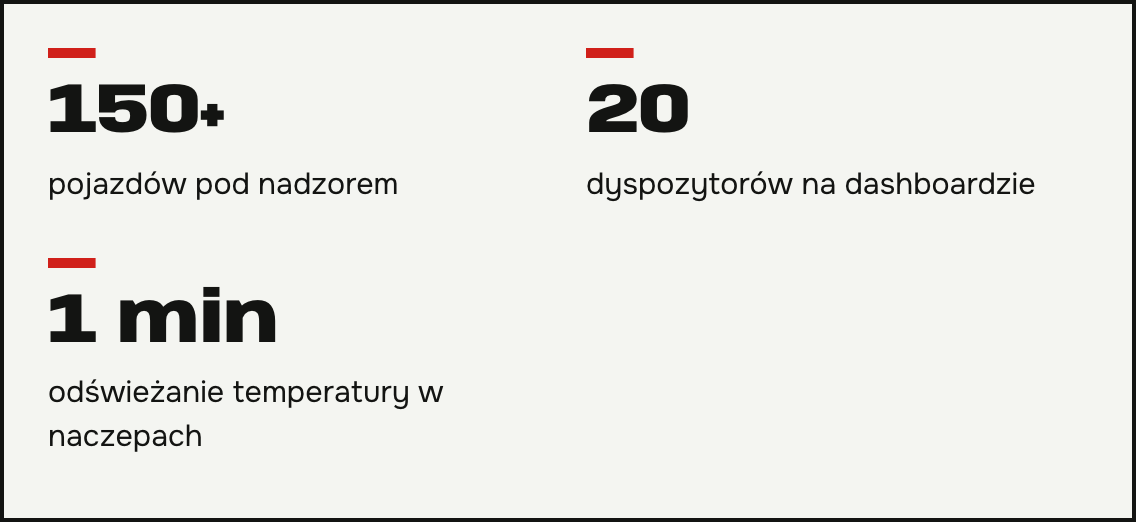
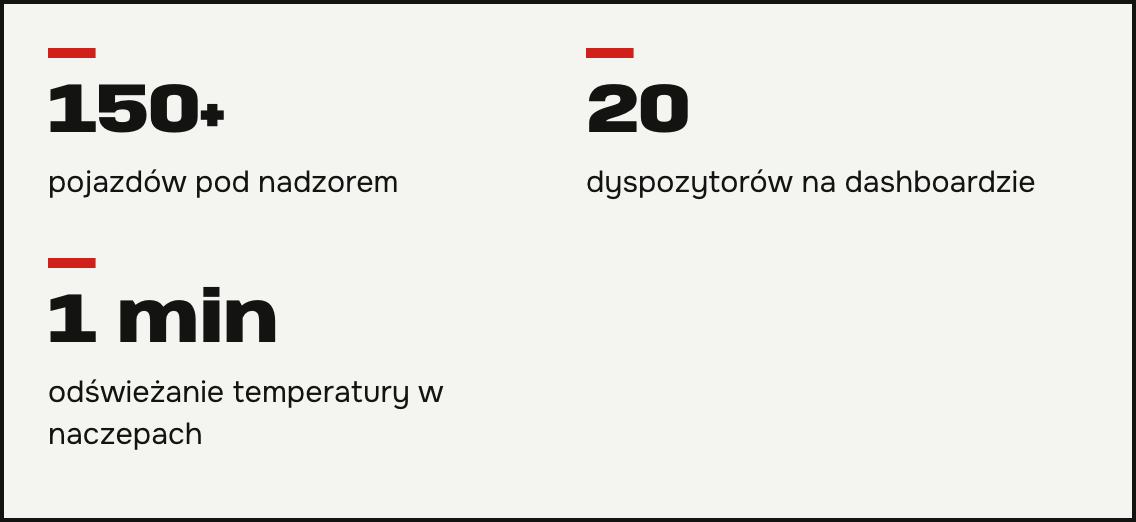
Poprawki po przeglądzie: fakt z karty wdrożenia, brak pliku zatrzymuje build, % w nazwach

Changed region(s): [[0.493, 0.3372, 0.9243, 0.3985], [0.0308, 0.3372, 0.3697, 0.3985], [0.0616, 0.7969, 0.1849, 0.8582]]

diff --git a/docs/blog-szkice/podglad/podglad.html b/docs/blog-szkice/podglad/podglad.html
@@ -225,7 +225,7 @@ section:first-child { border-top: 0; }
 <circle cx="400" cy="150" r="52" fill="#131412"/><path d="M376 150l16 16 32-34" fill="none" stroke="#ffc400" stroke-width="10" stroke-linecap="round" stroke-linejoin="round"/></svg></a>
   <div><time class="mono">14.10.2026</time><h3><a href="#ai-act-dla-malej-firmy">AI Act dla małej firmy: lista na 2026</a></h3><p>AI Act dla małej firmy: od 2.08.2026 klient musi wiedzieć, że rozmawia z botem. Sprawdź w 3 krokach, co zrobić. Napisz, pomogę.</p></div>
 </article><article class="karta" style="--pl:var(--m)">
-  <a class="mini" href="#ile-firm-uzywa-ai" tabindex="-1" aria-hidden="true"><svg xmlns="http://www.w3.org/2000/svg" viewBox="0 0 480 270" role="img" aria-label="Duża liczba 8,36 procent firm z AI w Polsce i porównanie z Unią Europejską"><rect width="480" height="270" fill="#d0201a"/>
+  <a class="mini" href="#ile-firm-uzywa-ai" tabindex="-1" aria-hidden="true"><svg xmlns="http://www.w3.org/2000/svg" viewBox="0 0 480 270" role="img" aria-label="Duża liczba 8,36 procent firm z AI w Polsce według Eurostatu i porównanie z Unią Europejską"><rect width="480" height="270" fill="#d0201a"/>
 <text x="28" y="44" font-family="Spline Sans Mono, Menlo, monospace" font-weight="600" font-size="14" fill="#f4f5f1">FIRMY Z AI · 2025</text>
 <text x="28" y="132" font-family="Anybody, Arial Black, Arial, sans-serif" font-weight="850" font-size="74" fill="#f4f5f1">8,36%</text>
 <text x="30" y="160" font-family="Spline Sans Mono, Menlo, monospace" font-weight="600" font-size="14" fill="#f4f5f1">POLSKA</text>
@@ -406,14 +406,14 @@ section:first-child { border-top: 0; }
   <p class="label mono">Wpis 4 z 5 · /wpisy/voice-bot-dla-firmy/</p>
   <header><h1 class="sec-title">Voice bot dla firmy: oddzwonienie w 2 min</h1><time class="mono">04.11.2026</time>
   <p class="google mono"><span>Wynik w Google</span><b>Voice bot dla firmy: oddzwonienie w 2 min | Robert Dębicki</b>Voice bot dla firmy dzwoni do osoby z formularza w 2 minuty i robi notatkę dla handlowca. Zobacz, jak działa i co z AI Act. Napisz do mnie.</p></header>
-  <div class="wpis-tresc"><p class="wstep"><strong>Voice bot dla firmy</strong> może zadzwonić do osoby, która wypełniła formularz na Twojej stronie, w 2 minuty od wysłania. Opisuję wdrożenie, w którym bot obsługuje około 15 rozmów dziennie i przekazuje handlowcowi gotową notatkę. Chcesz oddzwaniać szybciej do zapytań? Napisz do mnie.</p>
+  <div class="wpis-tresc"><p class="wstep"><strong>Voice bot dla firmy</strong> może zadzwonić do osoby, która wypełniła formularz na Twojej stronie, w 2 minuty od wysłania. Opisuję wdrożenie, w którym bot obsługuje 15 rozmów dziennie i przekazuje handlowcowi gotową notatkę. Chcesz oddzwaniać szybciej do zapytań? Napisz do mnie.</p>
 <figure class="graf" role="img" aria-label="Oś czasu voice bota: formularz o 0:00, telefon bota o 2:00, notatka z potrzebą i budżetem trafia do Pipedrive"><ol class="minuty">
   <li><time class="mono">0:00</time><b>Formularz</b><span>Klient wysyła zapytanie.</span></li>
   <li class="teraz"><time class="mono">2:00</time><b>Bot dzwoni</b><span>Pytania kwalifikujące.</span></li>
   <li><time class="mono">po rozmowie</time><b>Notatka</b><span>Potrzeba i budżet.</span></li>
   <li><time class="mono">n8n</time><b>Pipedrive</b><span>Przy właściwej szansie sprzedaży.</span></li>
 </ol>
-<div class="kara"><span class="duza">~15</span><span>rozmów dziennie w opisanym wdrożeniu</span></div><p class="alt mono">ALT: Oś czasu voice bota: formularz o 0:00, telefon bota o 2:00, notatka z potrzebą i budżetem trafia do Pipedrive</p></figure>
+<div class="kara"><span class="duza">15</span><span>rozmów dziennie w opisanym wdrożeniu</span></div><p class="alt mono">ALT: Oś czasu voice bota: formularz o 0:00, telefon bota o 2:00, notatka z potrzebą i budżetem trafia do Pipedrive</p></figure>
 <h2>Po co oddzwaniać do leada od razu</h2>
 <p>Osoba, która właśnie wysłała formularz, ma sprawę w głowie. Handlowiec nie zawsze może zadzwonić od razu, bo prowadzi inne rozmowy.</p>
 <h2>Jak działa ten voice bot krok po kroku</h2>
@@ -439,7 +439,7 @@ section:first-child { border-top: 0; }
 <h2>Pytania i odpowiedzi</h2>
 <div class="faq">
 <details><summary>Czy klient pozna, że rozmawia z botem?</summary><p>Powinien to usłyszeć na początku rozmowy. Wymagają tego przepisy przejrzystości AI Act, gdy nie jest to oczywiste.</p></details>
-<details><summary>Ile rozmów dziennie obsłuży bot?</summary><p>W opisanym wdrożeniu to około 15 rozmów dziennie. Liczba zależy od liczby formularzy w Twojej firmie.</p></details>
+<details><summary>Ile rozmów dziennie obsłuży bot?</summary><p>W opisanym wdrożeniu to 15 rozmów dziennie. Liczba zależy od liczby formularzy w Twojej firmie.</p></details>
 <details><summary>Co jeśli klient nie odbierze albo przerwie rozmowę?</summary><p>Takie przypadki też trafiają do handlowca. Ma wtedy informację, że kontakt jest do ponowienia, razem z tym, co klient zdążył powiedzieć.</p></details>
 <details><summary>W jakim CRM to działa?</summary><p>W opisanym wdrożeniu w Pipedrive. Pracuję też z HubSpotem i integracjami przez API.</p></details>
 <details><summary>Ile kosztuje voice bot dla firmy?</summary><p>Cena zależy od liczby pytań, CRM i godzin dzwonienia. Napisz, jakich zapytań dostajesz dziennie, a przygotuję wycenę.</p></details>
@@ -473,7 +473,7 @@ section:first-child { border-top: 0; }
   </tbody>
 </table></div><p class="alt mono">ALT: Tabela porównania n8n, Make i Zapier: prostota obsługi, wiedza techniczna, miejsce danych</p></figure>
 <h2>Dlaczego w moich wdrożeniach często wybieram n8n</h2>
-<p>Przy monitoringu temperatur w transporcie logika aplikacji przekroczyła limity workflow. Przeniosłem ją do n8n na AWS. System pilnuje ponad 150 pojazdów, a 20 dyspozytorów widzi odczyty odświeżane co minutę. Przy odczycie dokumentów i voice botach też używam n8n.</p>
+<p>Przy monitoringu temperatur w transporcie przeniosłem logikę aplikacji do n8n na AWS, żeby nie przekraczać limitów workflow. System pilnuje ponad 150 pojazdów, a 20 dyspozytorów widzi odczyty odświeżane co minutę. Przy odczycie dokumentów i voice botach też używam n8n.</p>
 <p>To nie jest reguła dla każdego. Przy prostej automatyzacji dla małego zespołu Zapier albo Make wystarczą.</p>
 <figure class="graf" role="img" aria-label="Wdrożenie n8n na AWS w transporcie chłodniczym: ponad 150 pojazdów, 20 dyspozytorów, odczyt co minutę"><div class="liczby">
   <div><span class="duza">150+</span><span>pojazdów pod nadzorem</span></div>

diff --git a/testy/jednostkowe/obrazy-w-tresci.test.ts b/testy/jednostkowe/obrazy-w-tresci.test.ts
@@ -7,6 +7,8 @@ import { sciezkaWzgledna } from '../../src/lib/obrazy-w-tresci.mjs';
 const korzen = mkdtempSync(join(tmpdir(), 'obrazy-'));
 mkdirSync(join(korzen, 'src/assets/wpisy'), { recursive: true });
 writeFileSync(join(korzen, 'src/assets/wpisy/grafika.png'), '');
+writeFileSync(join(korzen, 'src/assets/wpisy/wzrost-100%.png'), '');
+writeFileSync(join(korzen, 'src/assets/wpisy/żółw.png'), '');
 const md = join(korzen, 'src/content/wpisy/adres/pl.md');
 const DOZWOLONE = ['/src/assets/'];
 
@@ -19,6 +21,18 @@ describe('obrazy w treści wpisu: ścieżka z panelu na względną', () => {
     expect(sciezkaWzgledna('//example.com/a.png', md, DOZWOLONE, korzen)).toBeNull();
     expect(sciezkaWzgledna('./a.png', md, DOZWOLONE, korzen)).toBeNull();
     expect(sciezkaWzgledna('/og.png', md, DOZWOLONE, korzen)).toBeNull();
-    expect(sciezkaWzgledna('/src/assets/wpisy/brak.png', md, DOZWOLONE, korzen)).toBeNull();
+  });
+  it('brak pliku w dozwolonym folderze zatrzymuje build z nazwą pliku (jak przy zdjęciach pod wpisem)', () => {
+    expect(() => sciezkaWzgledna('/src/assets/wpisy/brak.png', md, DOZWOLONE, korzen)).toThrow(/brak\.png/);
+  });
+  it('nazwy z % i polskimi znakami: wynik zakodowany tak, żeby Astro po swoim decodeURI trafiło w plik', () => {
+    const procent = sciezkaWzgledna('/src/assets/wpisy/wzrost-100%25.png', md, DOZWOLONE, korzen)!;
+    expect(decodeURI(procent)).toBe('../../../assets/wpisy/wzrost-100%.png');
+    const polskie = sciezkaWzgledna('/src/assets/wpisy/%C5%BC%C3%B3%C5%82w.png', md, DOZWOLONE, korzen)!;
+    expect(decodeURI(polskie)).toBe('../../../assets/wpisy/żółw.png');
+    expect(decodeURI(sciezkaWzgledna('/src/assets/wpisy/żółw.png', md, DOZWOLONE, korzen)!)).toBe('../../../assets/wpisy/żółw.png');
+  });
+  it('błędna sekwencja % nie wywraca buildu wyjątkiem URIError', () => {
+    expect(() => sciezkaWzgledna('/src/assets/wpisy/zly-%zz.png', md, DOZWOLONE, korzen)).not.toThrow(URIError);
   });
 });

diff --git a/src/lib/wpisy.ts b/src/lib/wpisy.ts
@@ -17,7 +17,7 @@ const OBRAZY: Obrazy = import.meta.env.OBRAZY_Z_FIKSTUR
 
 export async function obraz(plik: string, wpis: string) {
   const wczytaj = OBRAZY[plik];
-  if (!wczytaj) throw new Error(`Wpis ${wpis}: nie znaleziono zdjęcia ${plik}. Sprawdź pole zdjecia.plik.`);
+  if (!wczytaj) throw new Error(`Wpis ${wpis}: nie znaleziono zdjęcia ${plik}. Sprawdź pole plik w zdjęciach albo w miniaturze.`);
   return (await wczytaj()).default;
 }
 

diff --git a/docs/blog-szkice/podglad/generuj.py b/docs/blog-szkice/podglad/generuj.py
@@ -151,7 +151,7 @@ DWIE_MINUTY = figura(
   <li><time class="mono">po rozmowie</time><b>Notatka</b><span>Potrzeba i budżet.</span></li>
   <li><time class="mono">n8n</time><b>Pipedrive</b><span>Przy właściwej szansie sprzedaży.</span></li>
 </ol>
-<div class="kara"><span class="duza">~15</span><span>rozmów dziennie w opisanym wdrożeniu</span></div>''',
+<div class="kara"><span class="duza">15</span><span>rozmów dziennie w opisanym wdrożeniu</span></div>''',
 )
 
 NOTATKA = figura(
@@ -264,7 +264,7 @@ MINIATURY = {
 <rect x="28" y="228" width="158" height="22" fill="{P}"/><text x="196" y="245" {MONO} font-size="14" fill="{P}">UE 19,95%</text>
 <g fill="none" stroke="{K}" stroke-width="5" stroke-linejoin="round"><rect x="330" y="70" width="120" height="150" fill="{P}"/></g>
 <path d="M352 196h76M352 170h76M352 144h50" stroke="{K}" stroke-width="6"/><circle cx="420" cy="96" r="14" fill="{Y}" stroke="{K}" stroke-width="4"/>''',
-        'Duża liczba 8,36 procent firm z AI w Polsce i porównanie z Unią Europejską'),
+        'Duża liczba 8,36 procent firm z AI w Polsce według Eurostatu i porównanie z Unią Europejską'),
     'automatyczny-odczyt-dokumentow': svg(Y, f'''
 <text x="28" y="44" {MONO} font-size="14" fill="{K}">PDF → BAZA</text>
 <rect x="44" y="78" width="120" height="156" fill="{P}" stroke="{K}" stroke-width="4"/>

diff --git a/docs/blog-szkice/podglad/eksport.py b/docs/blog-szkice/podglad/eksport.py
@@ -1,8 +1,10 @@
 """Przenosi szkice na stronę: src/content/wpisy/<adres>/pl.md z grafikami jako obrazkami PNG.
 Najpierw: python3 docs/blog-szkice/podglad/generuj.py, potem node docs/blog-szkice/podglad/zrzuty.mjs (PNG do src/assets/wpisy/).
-Uruchom: python3 docs/blog-szkice/podglad/eksport.py"""
+Uruchom: python3 docs/blog-szkice/podglad/eksport.py
+Istniejącego pl.md nie nadpisuje (mógł być poprawiony w panelu /admin/), chyba że z flagą --nadpisz."""
 import html
 import re
+import sys
 from pathlib import Path
 
 import generuj
@@ -45,6 +47,9 @@ def main():
         alt_mini = re.search(r'aria-label="([^"]*)"', generuj.MINIATURY[nazwa]).group(1)
         fm = fm.rstrip('\n') + f'\nminiatura:\n  plik: "{ZDJECIA}/{nazwa}-miniatura.png"\n  alt: "{html.unescape(alt_mini)}"\n'
         cel = KORZEN / 'src/content/wpisy' / nazwa / 'pl.md'
+        if cel.exists() and '--nadpisz' not in sys.argv:
+            print('Pominięto (już istnieje, użyj --nadpisz):', cel.relative_to(KORZEN))
+            continue
         cel.parent.mkdir(parents=True, exist_ok=True)
         cel.write_text(f'---{fm}---\n' + '\n\n'.join(wyjscie) + '\n')
         print('Zapisano', cel.relative_to(KORZEN))

diff --git a/CHANGELOG.md b/CHANGELOG.md
@@ -9,6 +9,13 @@
 - Testy, które zakładały brak wpisów na prawdziwej treści, sprawdzają teraz oba stany: `wpisy-puste.spec.ts`, menu EN w `jezyki-prawdziwa-tresc.spec.ts` (Posts z „No posts in English yet”, jak w `maListe`), porównanie z makietą ukrywa sekcję wpisów i link w menu (makieta ich nie ma).
 - `npm run sprawdz`: treść 0, GPS 0, tłumaczenia OK, vitest 148 pass/1 skipped, e2e 120 pass. Zrzuty listy i wpisu 1440 jasny i ciemny, 390: bez przewijania w bok.
 
+**✅ Poprawki po `/code-review medium` (runda 1, 10 uwag):**
+- Przeinaczony fakt: wpis n8n mówił, że logika „przekroczyła limity”, karta: przeniesiona, „żeby nie przekraczać limitów”. Ten sam typ: „około 15 rozmów” zamiast „15” (karta), też na grafice. Poprawione w szkicach, wpisach i PNG.
+- Wtyczka obrazów: brak pliku w `/src/assets/` zatrzymuje build (wcześniej cicho zepsuty obrazek), `%` i polskie znaki w nazwie bez wywracania buildu (testy najpierw czerwone).
+- Komunikat `obraz()` wskazuje też miniaturę; `eksport.py` nie nadpisuje wpisów bez `--nadpisz`; README szkiców: źródłem treści jest panel; ALT miniaturki: „według Eurostatu”.
+- Bez zmian: porównanie z makietą pomija sekcję wpisów (makieta jej nie ma), wspólny helper w testach (refaktor bez błędu).
+- Otwarte, decyzja Roberta: menu EN „Posts” prowadzi do pustej listy, która trafia do mapy strony.
+
 **🎯 Następny krok:**
 - `/code-review`, potem PR, scalenie i `npm run wdroz -- --wgraj` (zgoda Roberta z 12.11 w rozmowie).
 - Później: angielskie wersje wpisów przez `/tlumacz-strone` (do tego czasu w EN menu „Posts” prowadzi do pustej listy).

diff --git a/src/content/wpisy/voice-bot-dla-firmy/pl.md b/src/content/wpisy/voice-bot-dla-firmy/pl.md
@@ -6,7 +6,7 @@ miniatura:
   plik: "/src/assets/wpisy/voice-bot-dla-firmy-miniatura.png"
   alt: "Duży napis 2:00 i słuchawka telefonu, bot oddzwania do klienta w dwie minuty"
 ---
-**Voice bot dla firmy** może zadzwonić do osoby, która wypełniła formularz na Twojej stronie, w 2 minuty od wysłania. Opisuję wdrożenie, w którym bot obsługuje około 15 rozmów dziennie i przekazuje handlowcowi gotową notatkę. Chcesz oddzwaniać szybciej do zapytań? Napisz do mnie.
+**Voice bot dla firmy** może zadzwonić do osoby, która wypełniła formularz na Twojej stronie, w 2 minuty od wysłania. Opisuję wdrożenie, w którym bot obsługuje 15 rozmów dziennie i przekazuje handlowcowi gotową notatkę. Chcesz oddzwaniać szybciej do zapytań? Napisz do mnie.
 
 ![Oś czasu voice bota: formularz o 0:00, telefon bota o 2:00, notatka z potrzebą i budżetem trafia do Pipedrive](/src/assets/wpisy/voice-bot-dla-firmy-1.png)
 
@@ -43,7 +43,7 @@ Od 2 sierpnia 2026 klient ma wiedzieć, że rozmawia z AI, jeśli nie jest to oc
 Powinien to usłyszeć na początku rozmowy. Wymagają tego przepisy przejrzystości AI Act, gdy nie jest to oczywiste.
 
 ### Ile rozmów dziennie obsłuży bot?
-W opisanym wdrożeniu to około 15 rozmów dziennie. Liczba zależy od liczby formularzy w Twojej firmie.
+W opisanym wdrożeniu to 15 rozmów dziennie. Liczba zależy od liczby formularzy w Twojej firmie.
 
 ### Co jeśli klient nie odbierze albo przerwie rozmowę?
 Takie przypadki też trafiają do handlowca. Ma wtedy informację, że kontakt jest do ponowienia, razem z tym, co klient zdążył powiedzieć.

diff --git a/docs/blog-szkice/voice-bot-dla-firmy.md b/docs/blog-szkice/voice-bot-dla-firmy.md
@@ -3,7 +3,7 @@ tytul: "Voice bot dla firmy: oddzwonienie w 2 min"
 data: 2026-11-04
 zajawka: "Voice bot dla firmy dzwoni do osoby z formularza w 2 minuty i robi notatkę dla handlowca. Zobacz, jak działa i co z AI Act. Napisz do mnie."
 ---
-**Voice bot dla firmy** może zadzwonić do osoby, która wypełniła formularz na Twojej stronie, w 2 minuty od wysłania. Opisuję wdrożenie, w którym bot obsługuje około 15 rozmów dziennie i przekazuje handlowcowi gotową notatkę. Chcesz oddzwaniać szybciej do zapytań? Napisz do mnie.
+**Voice bot dla firmy** może zadzwonić do osoby, która wypełniła formularz na Twojej stronie, w 2 minuty od wysłania. Opisuję wdrożenie, w którym bot obsługuje 15 rozmów dziennie i przekazuje handlowcowi gotową notatkę. Chcesz oddzwaniać szybciej do zapytań? Napisz do mnie.
 
 ## Po co oddzwaniać do leada od razu
 
@@ -32,7 +32,7 @@ Od 2 sierpnia 2026 klient ma wiedzieć, że rozmawia z AI, jeśli nie jest to oc
 Powinien to usłyszeć na początku rozmowy. Wymagają tego przepisy przejrzystości AI Act, gdy nie jest to oczywiste.
 
 ### Ile rozmów dziennie obsłuży bot?
-W opisanym wdrożeniu to około 15 rozmów dziennie. Liczba zależy od liczby formularzy w Twojej firmie.
+W opisanym wdrożeniu to 15 rozmów dziennie. Liczba zależy od liczby formularzy w Twojej firmie.
 
 ### Co jeśli klient nie odbierze albo przerwie rozmowę?
 Takie przypadki też trafiają do handlowca. Ma wtedy informację, że kontakt jest do ponowienia, razem z tym, co klient zdążył powiedzieć.

diff --git a/docs/blog-szkice/n8n-make-czy-zapier.md b/docs/blog-szkice/n8n-make-czy-zapier.md
@@ -21,7 +21,7 @@ n8n wymaga najwięcej wiedzy, ale daje największą kontrolę. Można go postawi
 
 ## Dlaczego w moich wdrożeniach często wybieram n8n
 
-Przy monitoringu temperatur w transporcie logika aplikacji przekroczyła limity workflow. Przeniosłem ją do n8n na AWS. System pilnuje ponad 150 pojazdów, a 20 dyspozytorów widzi odczyty odświeżane co minutę. Przy odczycie dokumentów i voice botach też używam n8n.
+Przy monitoringu temperatur w transporcie przeniosłem logikę aplikacji do n8n na AWS, żeby nie przekraczać limitów workflow. System pilnuje ponad 150 pojazdów, a 20 dyspozytorów widzi odczyty odświeżane co minutę. Przy odczycie dokumentów i voice botach też używam n8n.
 
 To nie jest reguła dla każdego. Przy prostej automatyzacji dla małego zespołu Zapier albo Make wystarczą.
 

diff --git a/src/content/wpisy/n8n-make-czy-zapier/pl.md b/src/content/wpisy/n8n-make-czy-zapier/pl.md
@@ -30,7 +30,7 @@ n8n wymaga najwięcej wiedzy, ale daje największą kontrolę. Można go postawi
 
 ## Dlaczego w moich wdrożeniach często wybieram n8n
 
-Przy monitoringu temperatur w transporcie logika aplikacji przekroczyła limity workflow. Przeniosłem ją do n8n na AWS. System pilnuje ponad 150 pojazdów, a 20 dyspozytorów widzi odczyty odświeżane co minutę. Przy odczycie dokumentów i voice botach też używam n8n.
+Przy monitoringu temperatur w transporcie przeniosłem logikę aplikacji do n8n na AWS, żeby nie przekraczać limitów workflow. System pilnuje ponad 150 pojazdów, a 20 dyspozytorów widzi odczyty odświeżane co minutę. Przy odczycie dokumentów i voice botach też używam n8n.
 
 To nie jest reguła dla każdego. Przy prostej automatyzacji dla małego zespołu Zapier albo Make wystarczą.
 

diff --git a/src/content/wpisy/ile-firm-uzywa-ai/pl.md b/src/content/wpisy/ile-firm-uzywa-ai/pl.md
@@ -4,7 +4,7 @@ data: 2026-10-21
 zajawka: "Automatyzacja procesów w firmie: AI stosuje 8,7% polskich firm. Zobacz, jak wybrać pierwszy proces i co dało to moim klientom. Napisz do mnie."
 miniatura:
   plik: "/src/assets/wpisy/ile-firm-uzywa-ai-miniatura.png"
-  alt: "Duża liczba 8,36 procent firm z AI w Polsce i porównanie z Unią Europejską"
+  alt: "Duża liczba 8,36 procent firm z AI w Polsce według Eurostatu i porównanie z Unią Europejską"
 ---
 **Automatyzacja procesów w firmie** to nadal przewaga, nie standard. Według GUS w 2025 roku sztuczną inteligencję stosowało 8,7 procent polskich firm. Opisuję, jak wybrać pierwszy proces do zautomatyzowania i jakie efekty widzieli moi klienci. Chcesz sprawdzić, co zautomatyzować u siebie? Napisz do mnie.
 

diff --git a/docs/blog-szkice/README.md b/docs/blog-szkice/README.md
@@ -1,6 +1,6 @@
 # Szkice wpisów na bloga
 
-Pięć szkiców. Nie są na stronie. Publikacja jednego wpisu: skopiuj plik do `src/content/wpisy/<adres>/pl.md` (adres = nazwa pliku bez `.md`) albo dodaj go z panelu `/admin/`, ustaw `data` na dzień publikacji, potem `npm run build` i `npm test`.
+Pięć wpisów opublikowanych 12.11 w `src/content/wpisy/` (daty wstecz 14.10 do 11.11). **Źródłem treści jest teraz panel `/admin/` i `src/content/wpisy/`**, nie te szkice. Szkice i makieta (`podglad/`) zostają jako historia i do odtworzenia grafik: `generuj.py` → `zrzuty.mjs` (PNG do `src/assets/wpisy/`) → `eksport.py` (nie nadpisuje istniejących wpisów bez `--nadpisz`).
 
 | Plik | Fraza główna | Źródła zewnętrzne |
 |---|---|---|
